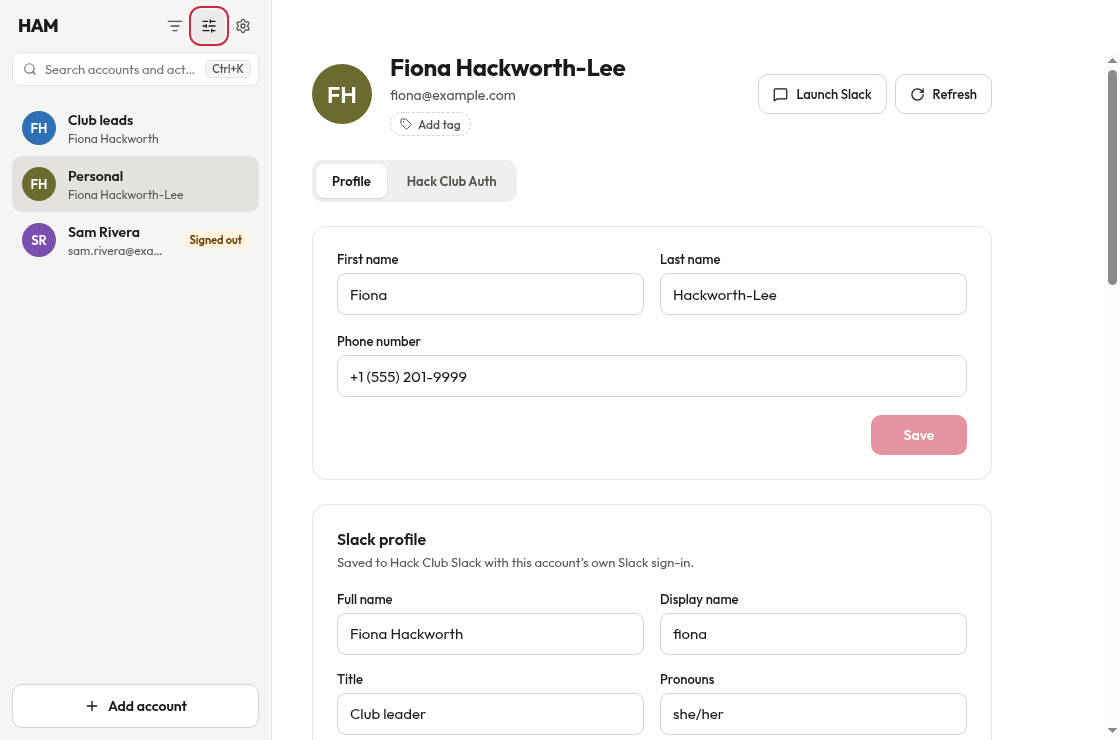
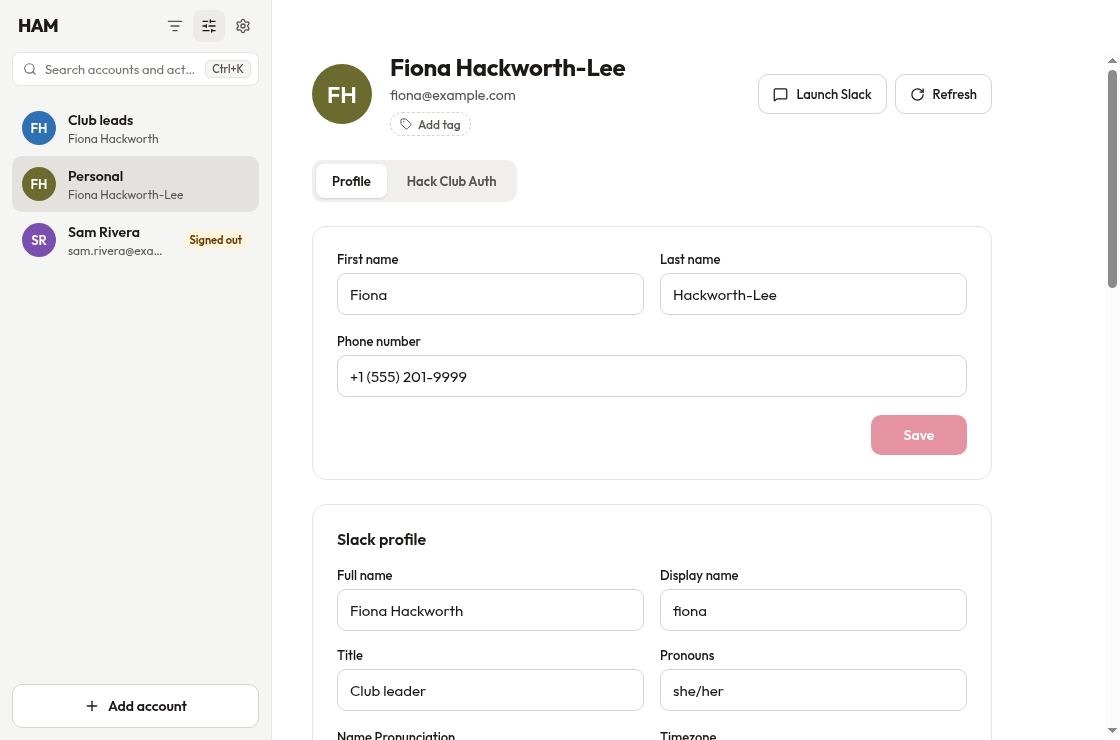
Slack card: drop the explanatory copy

Changed region(s): [[0.2812, 0.7459, 0.6562, 1.0], [0.1562, 0.0311, 0.2188, 0.0622]]

diff --git a/src/renderer/src/components/SlackProfileCard.tsx b/src/renderer/src/components/SlackProfileCard.tsx
@@ -176,16 +176,13 @@ export const SlackProfileCard = forwardRef<SlackProfileHandle, Props>(function S
 
   return (
     <form className="card" onSubmit={save} aria-labelledby="slack-heading">
-      <div>
-        <h2 id="slack-heading">Slack profile</h2>
-        <p className="lead">Saved to Hack Club Slack with this account’s own Slack sign-in.</p>
-      </div>
+      <h2 id="slack-heading">Slack profile</h2>
 
       {!session && (
         <div className="banner info">
           <Info size={16} aria-hidden style={{ flex: 'none' }} />
           <span className="text">
-            {hasValues ? 'Open Slack again to edit this profile. These are the values HAM last saw.' : 'Open Slack once in HAM to edit this profile here.'}
+            Open Slack to edit this profile.
           </span>
           {account.status === 'signed-in' && (
             <button type="button" className="btn" onClick={onLaunch}>
@@ -223,7 +220,6 @@ export const SlackProfileCard = forwardRef<SlackProfileHandle, Props>(function S
               {s.fields.map(customField)}
             </fieldset>
           ))}
-          {session && custom.length === 0 && <p className="hint">Slack’s own fields show up here once HAM has read this profile. Refresh to read it now.</p>}
         </>
       )}
 
